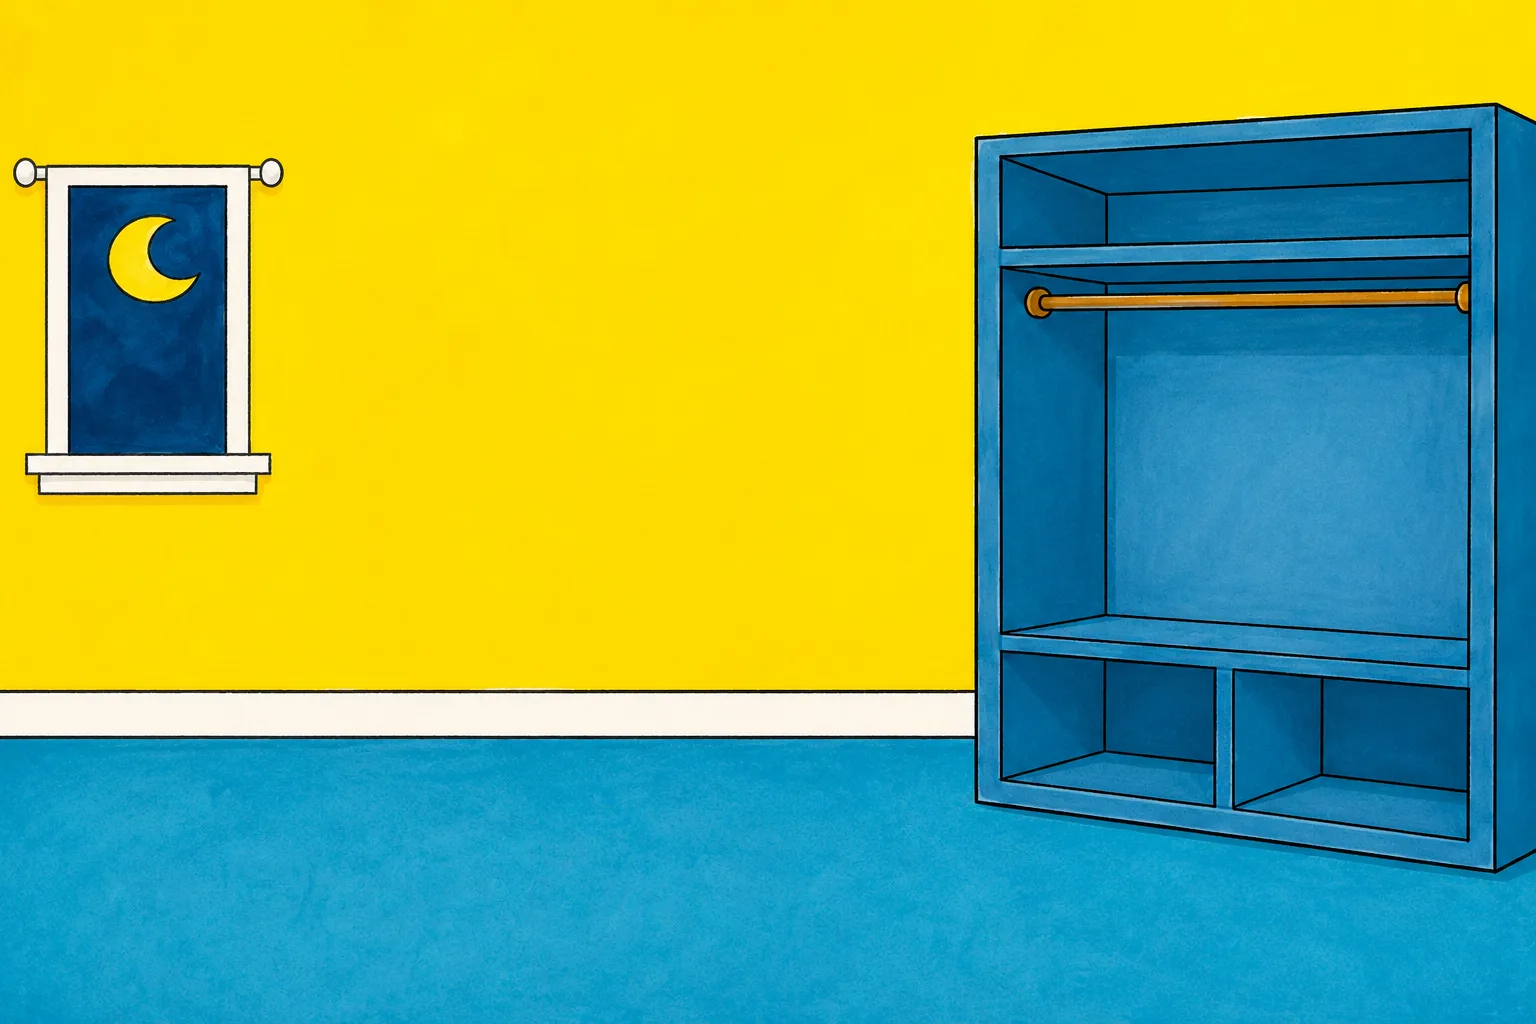
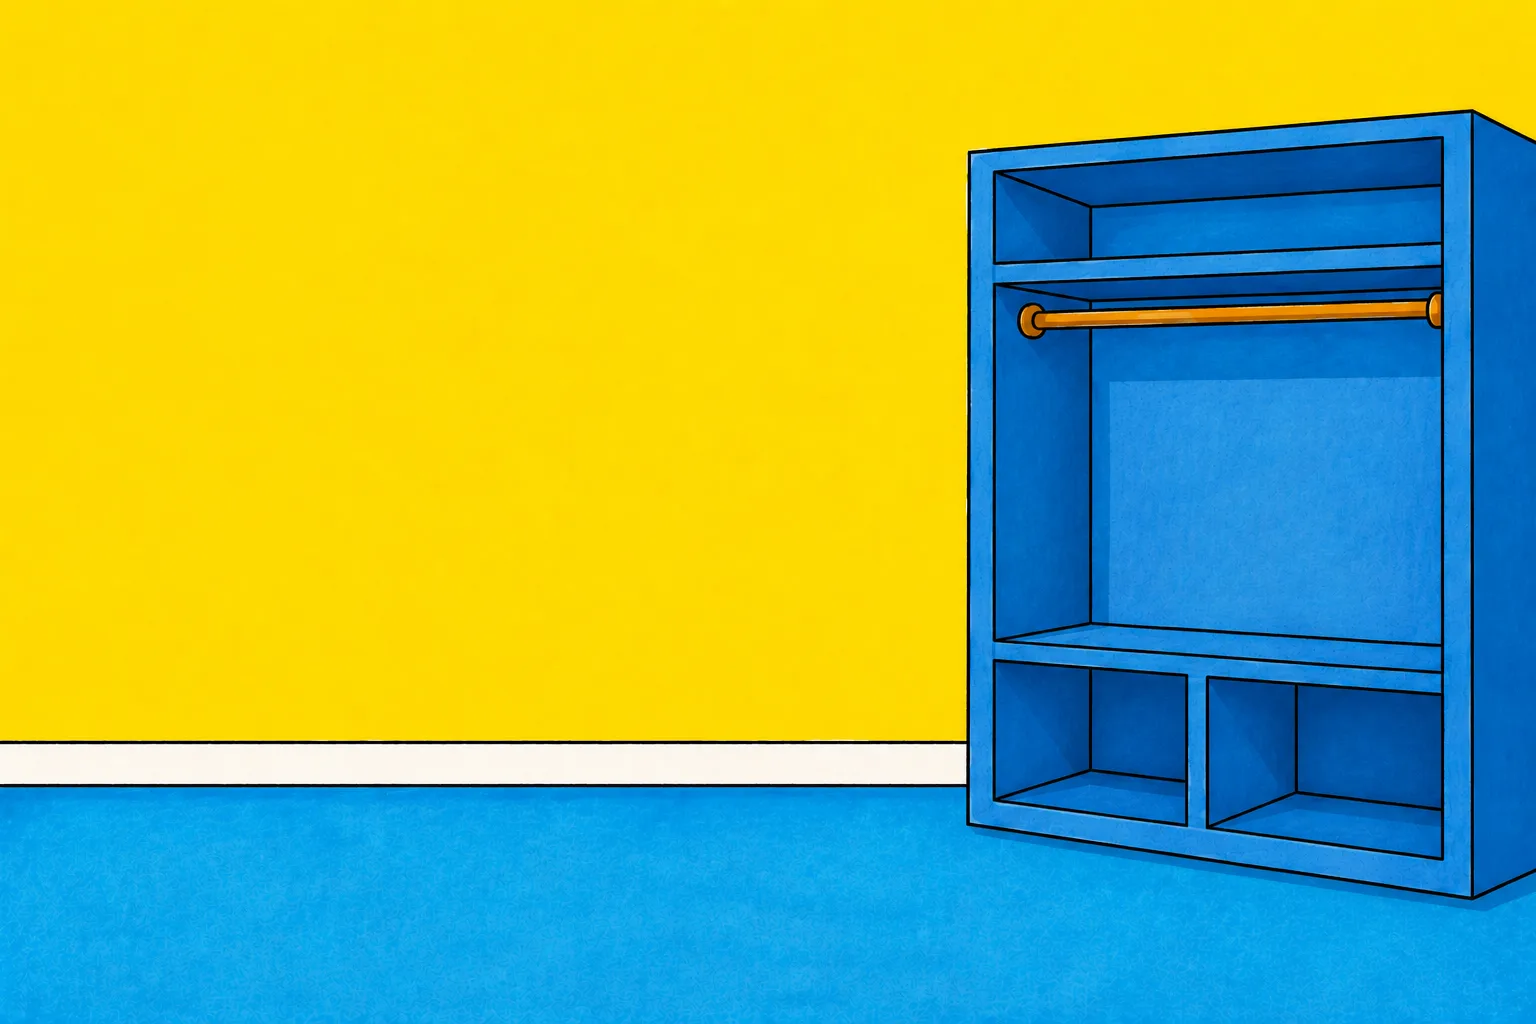
feat: shorts/cap/coat items, seasonal window system, export debug values

diff --git a/src/App.tsx b/src/App.tsx
@@ -2,6 +2,21 @@ import { useState, useEffect, useRef } from 'react'
 
 import roomBg from './assets/room-background.webp'
 
+// New background + windows
+import windowSummer from './assets/window-summer.webp'
+import windowAutumn from './assets/window-autumn.webp'
+import windowNight from './assets/window-night.webp'
+
+// New clothing layers
+import layerShorts from './assets/layers/layer-shorts.webp'
+import layerCap from './assets/layers/layer-cap.webp'
+import layerCoatWinter from './assets/layers/layer-coat-winter.webp'
+
+// New closet thumbnails
+import closetShorts from './assets/thumbnails/closet-shorts.webp'
+import closetCap from './assets/thumbnails/closet-cap.webp'
+import closetCoatWinter from './assets/thumbnails/closet-coat-winter.webp'
+
 // Base Pete — always visible, never changes
 import peteBase from './assets/pete/pete-base.webp'
 import peteNoArms from './assets/pete/pete-no-arms.webp'
@@ -201,6 +216,42 @@ const ITEMS: ClothingItem[] = [
     closetHeight: 'calc(551px * 0.18)',
     isShoe: true,
     defaultAdjustment: { x: 2, y: 20, scale: 1.10, rotate: 0 },
+  },
+  // Shorts — legs slot
+  {
+    id: 'shorts',
+    word: 'SHORTS',
+    label: 'swim shorts',
+    slot: SLOT.LEGS,
+    layer: layerShorts,
+    thumbnail: layerShorts,
+    closetThumbnail: closetShorts,
+    closetHeight: 'calc(551px * 0.22)',
+    defaultAdjustment: { x: 0, y: 0, scale: 1, rotate: 0 },
+  },
+  // Baseball cap — head slot
+  {
+    id: 'cap',
+    word: 'CAP',
+    label: 'a baseball cap',
+    slot: SLOT.HEAD,
+    layer: layerCap,
+    thumbnail: layerCap,
+    closetThumbnail: closetCap,
+    closetHeight: 'calc(551px * 0.15)',
+    defaultAdjustment: { x: 0, y: 0, scale: 1, rotate: 0 },
+  },
+  // Winter coat — torso slot
+  {
+    id: 'coat-winter',
+    word: 'COAT',
+    label: 'a winter coat',
+    slot: SLOT.TORSO,
+    layer: layerCoatWinter,
+    thumbnail: layerCoatWinter,
+    closetThumbnail: closetCoatWinter,
+    closetHeight: 'calc(551px * 0.30)',
+    defaultAdjustment: { x: 0, y: 0, scale: 1, rotate: 0 },
   },
 ]
 
@@ -835,6 +886,25 @@ function DebugPanel({
         Layer Debugger
       </p>
 
+      {/* Export button */}
+      <button
+        onClick={() => {
+          const data = {
+            layers: adjustments,
+            closet: closetAdjustments,
+          }
+          navigator.clipboard.writeText(JSON.stringify(data, null, 2))
+            .then(() => alert('Copied to clipboard!'))
+        }}
+        style={{
+          width: '100%', marginBottom: 8, padding: '4px 8px',
+          background: 'rgba(250,204,21,0.2)', border: '1px solid rgba(250,204,21,0.4)',
+          borderRadius: 4, color: '#facc15', fontSize: 10, cursor: 'pointer',
+        }}
+      >
+        📋 Export values
+      </button>
+
       {/* LAYERS section header */}
       <div
         onClick={() => setLayersOpen(o => !o)}
@@ -1044,6 +1114,16 @@ function DebugPanel({
   )
 }
 
+// ── Season ─────────────────────────────────────────────────────────────────────
+
+type Season = 'summer' | 'autumn' | 'night'
+
+const WINDOW_SRC: Record<Season, string> = {
+  summer: windowSummer,
+  autumn: windowAutumn,
+  night:  windowNight,
+}
+
 // ── Game scale hook ────────────────────────────────────────────────────────────
 
 const GAME_W = 1440
@@ -1086,6 +1166,7 @@ export default function App() {
   const [drag, setDrag]               = useState<DragState | null>(null)
   const [lastWord, setLastWord]       = useState<VocabWord | null>(null)
   const [hoveredId, setHoveredId]     = useState<string | undefined>(undefined)
+  const [season, setSeason]           = useState<Season>('summer')
 
   // ── Debug state ─────────────────────────────────────────────────────────────
   const [debugMode, setDebugMode]       = useState(false)
@@ -1105,6 +1186,9 @@ export default function App() {
     'trainers':     { x: 44,   y: -7,   scale: 0.65 },
     'socks':        { x: -336, y: 148,  scale: 1.65 },
     'cowboy-boots': { x: 4,    y: -4,   scale: 1.15 },
+    'shorts':       { x: 0,    y: 0,    scale: 1    },
+    'cap':          { x: 0,    y: 0,    scale: 1    },
+    'coat-winter':  { x: 0,    y: 0,    scale: 1    },
   })
 
   const peteRef = useRef<HTMLDivElement>(null)
@@ -1114,7 +1198,9 @@ export default function App() {
   useEffect(() => {
     const srcs = [peteBase, peteNoArms, peteNoFeet, peteNoArmsNoFeet, roomBg,
       layerShirt, layerJeans, layerPyjamas, layerHat, layerScarf,
-      layerTrainers, layerCowboyBoots, layerSocks, layerSocksLeft, layerSocksRight]
+      layerTrainers, layerCowboyBoots, layerSocks, layerSocksLeft, layerSocksRight,
+      windowSummer, windowAutumn, windowNight,
+      layerShorts, layerCap, layerCoatWinter]
     srcs.forEach(src => { const img = new window.Image(); img.src = src })
   }, []);
 
@@ -1382,12 +1468,37 @@ export default function App() {
       style={{ transform: `scale(${scale})`, cursor: drag ? 'grabbing' : 'default' }}
     >
       {/* Background */}
+      {/* Room base */}
       <img
         src={roomBg}
         alt="Pete's room"
         className="absolute inset-0 w-full h-full object-cover select-none"
         draggable={false}
       />
+      {/* Seasonal window overlay — same canvas size, same object-fit */}
+      <img
+        src={WINDOW_SRC[season]}
+        alt=""
+        className="absolute inset-0 w-full h-full object-cover pointer-events-none select-none"
+        draggable={false}
+      />
+
+      {/* Season selector */}
+      <div style={{ position: 'absolute', top: 8, right: 8, zIndex: 20, display: 'flex', gap: 6 }}>
+        {(['summer', 'autumn', 'night'] as Season[]).map(s => (
+          <button
+            key={s}
+            onClick={() => setSeason(s)}
+            style={{
+              background: season === s ? 'rgba(255,255,255,0.9)' : 'rgba(0,0,0,0.4)',
+              border: 'none', borderRadius: 20, padding: '4px 10px',
+              fontSize: 18, cursor: 'pointer', lineHeight: 1,
+            }}
+          >
+            {s === 'summer' ? '☀' : s === 'autumn' ? '🍂' : '🌙'}
+          </button>
+        ))}
+      </div>
 
       {/* Closet: 3 zones — rod, middle shelf, bottom boxes */}
       <Closet
